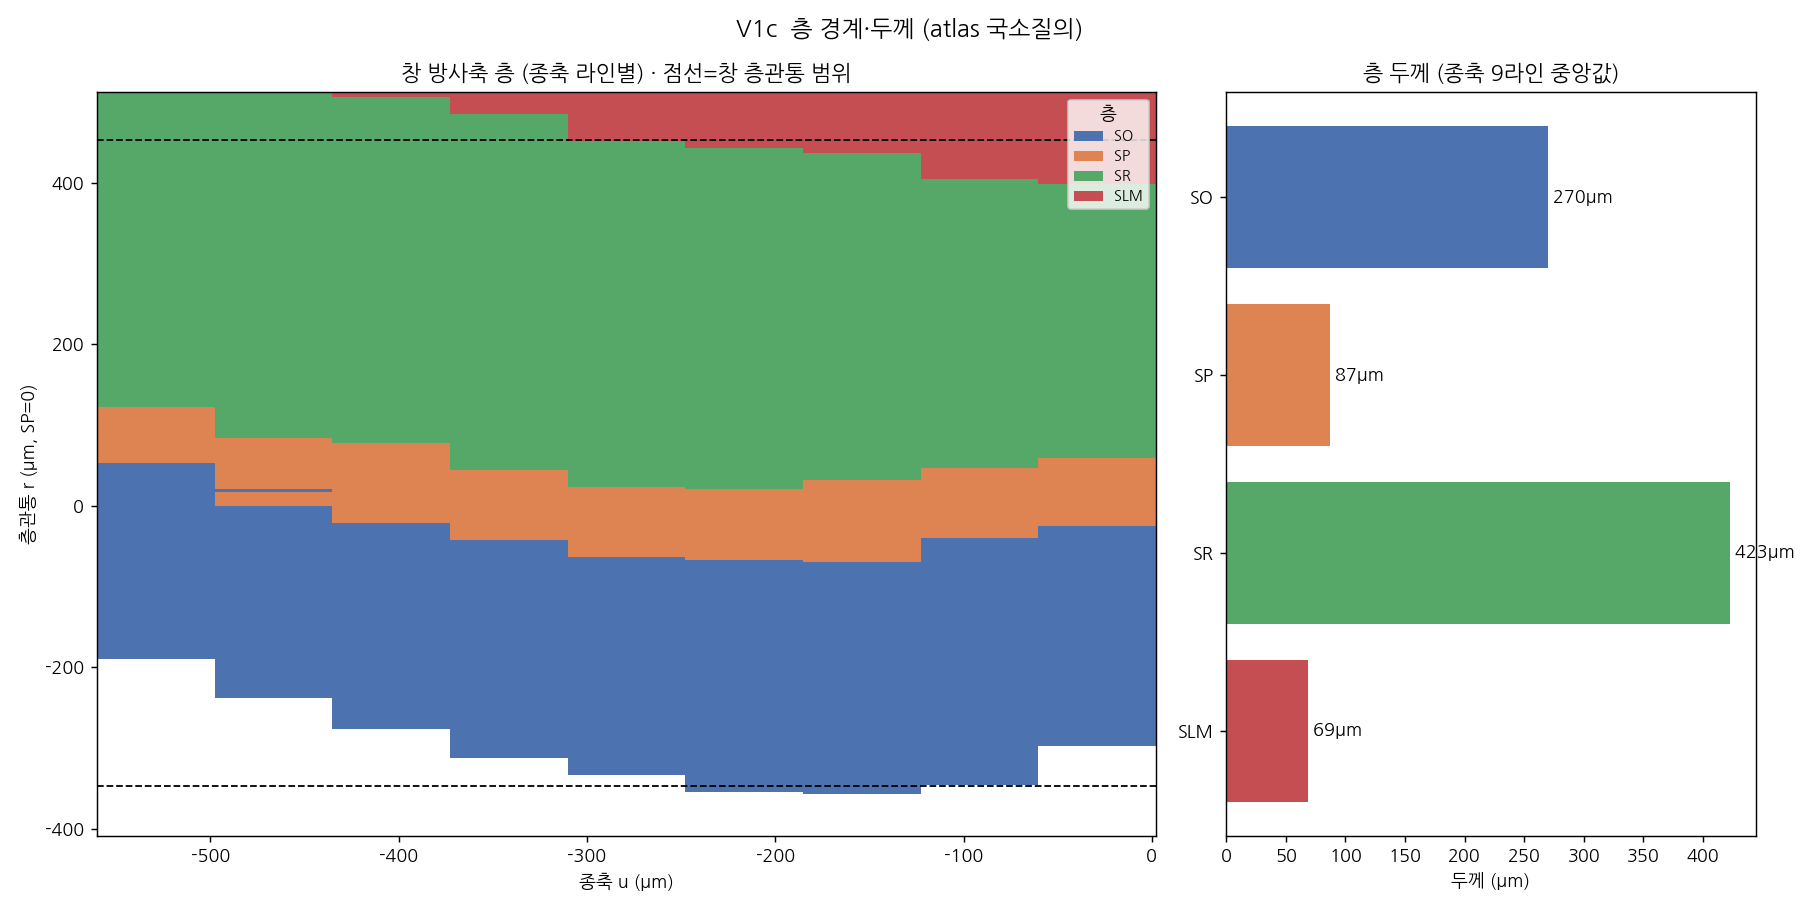
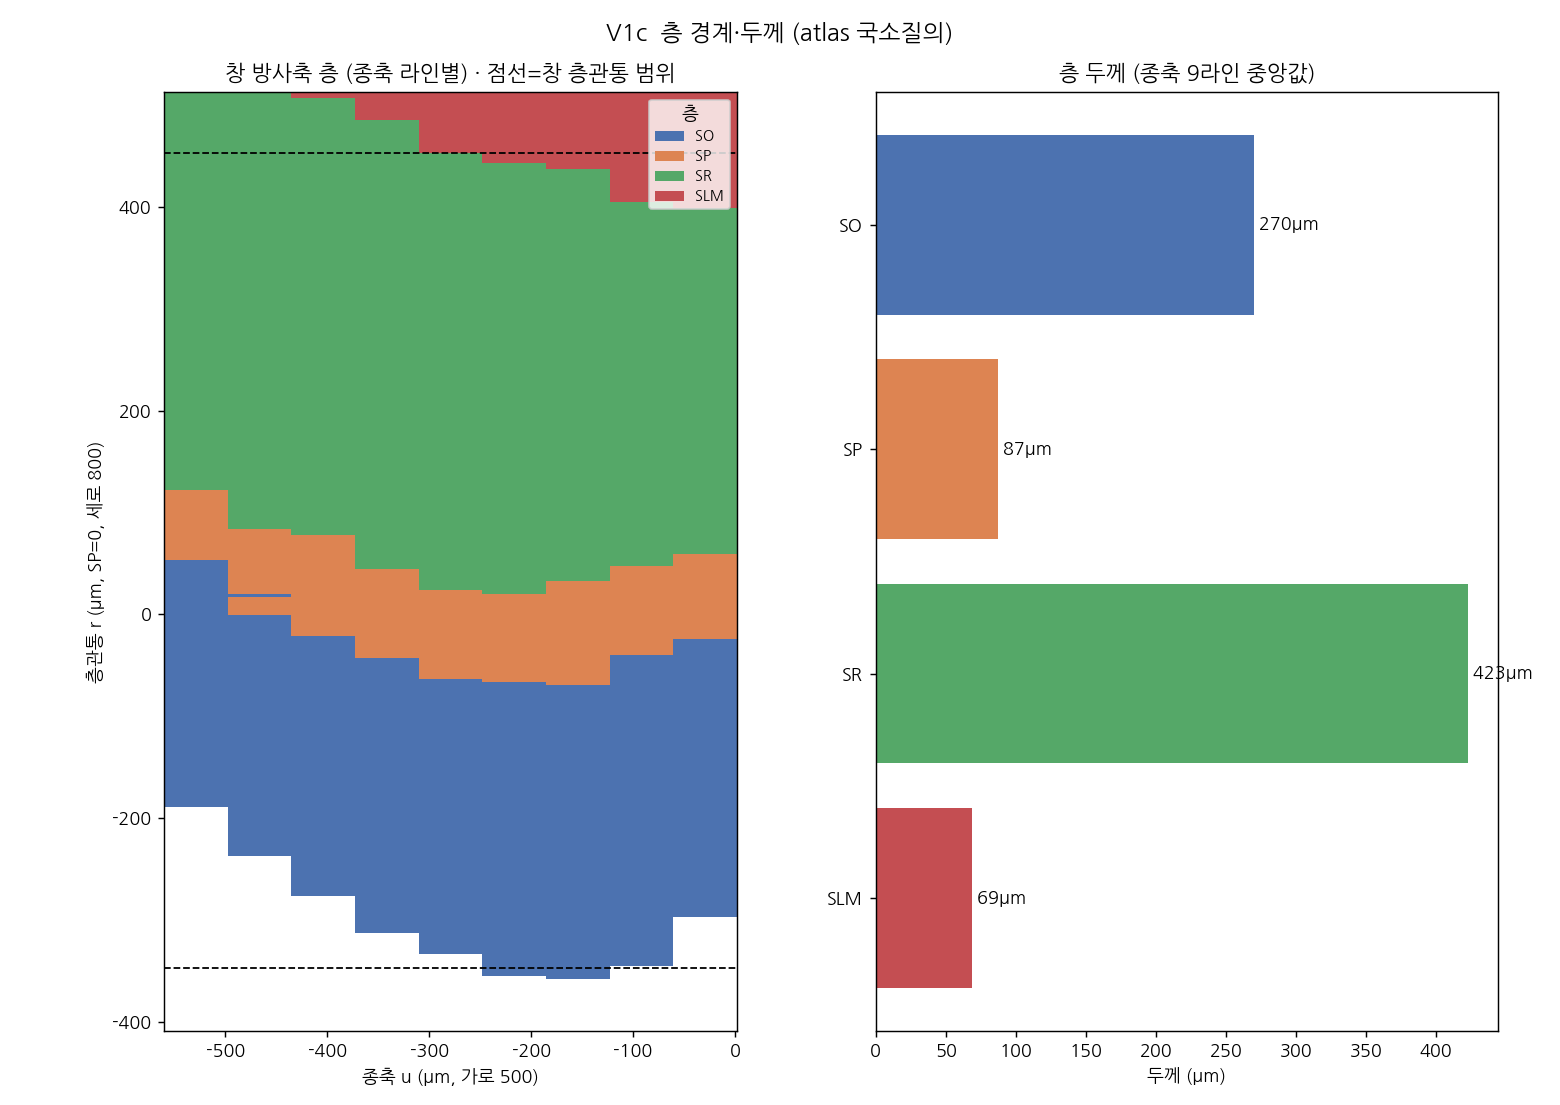
05 2-1: 창 세포 조성 집계(V2a)·E:I 8.8:1·12 mtype + V1c 등축 보정

Changed region(s): [[0.0, 0.0, 0.9846, 0.9846], [0.1538, 0.7692, 0.1846, 0.8]]

diff --git a/05_Micro_slice_CA1_Simulation/02_neurons/1_composition/composition.py b/05_Micro_slice_CA1_Simulation/02_neurons/1_composition/composition.py
@@ -1,0 +1,165 @@
+# -*- coding: utf-8 -*-
+"""
+02_neurons/1_composition/composition.py  —  2-1: 창 세포 조성 집계 (V2a)
+
+확정 창(층관통_v1) 안 세포의 조성을 SONATA nodes.h5에서 층별로 집계한다.
+  - 층별 세포수, m-type(12) 분포, e-type(4), 흥분/억제(EXC/INH), 형태강(PYR/INT)
+  - 밀도(cells/mm³), E:I 비, 대표 형태 개수(morphology 다양성)
+결과: data/derived/composition.json (2-2 배치 재사용) + 그림 V2a_composition.png
+
+재료: config/window_layout.json · circuit nodes.h5(hippocampus_neurons) · slice400.nrrd
+실행: python 02_neurons/1_composition/composition.py
+"""
+import os
+import glob
+import json
+import logging
+from collections import Counter
+
+import numpy as np
+import h5py
+import nrrd
+import matplotlib
+matplotlib.use("Agg")
+import matplotlib.pyplot as plt
+from matplotlib.patches import Patch
+logging.getLogger("matplotlib.font_manager").setLevel(logging.ERROR)
+plt.rcParams["font.family"] = ["NanumGothic", "Malgun Gothic", "DejaVu Sans"]
+plt.rcParams["axes.unicode_minus"] = False
+
+HERE = os.path.dirname(os.path.abspath(__file__))
+ROOT = os.path.abspath(os.path.join(HERE, "..", ".."))
+DATA = os.path.join(ROOT, "data")
+CFG = os.path.join(ROOT, "config", "window_layout.json")
+DERIVED = os.path.join(DATA, "derived")
+FIG = os.path.join(HERE, "figures")
+os.makedirs(FIG, exist_ok=True)
+os.makedirs(DERIVED, exist_ok=True)
+LAYER_ORDER = ["SO", "SP", "SR", "SLM"]
+LC = {"SO": "#4C72B0", "SP": "#DD8452", "SR": "#55A868", "SLM": "#C44E52"}
+
+
+def find(p):
+    return sorted(glob.glob(os.path.join(DATA, "**", glob.escape(p)), recursive=True), key=len)[0]
+
+
+def decode(g, name):
+    lib = [s.decode() if isinstance(s, bytes) else s for s in g["@library"][name][:]]
+    return np.array(lib, dtype=object)[g[name][:]]
+
+
+def main():
+    cfg = json.load(open(CFG, encoding="utf-8"))
+    fr = cfg["frame_um"]; w = cfg["window_um"]; c = w["center_local"]
+    seed = np.array(fr["seed"]); L = np.array(fr["long_dir"])
+    R = np.array(fr["radial_dir"]); Tk = np.array(fr["thick_dir"])
+
+    mask, h = nrrd.read(find(os.path.join("slices", "slice400.nrrd")))
+    origin = np.asarray(h["space origin"], float); vs = float(h["space directions"][0][0])
+    nx, ny, nz = mask.shape
+    hip = os.path.join("hippocampus_neurons", "nodes.h5")
+    with h5py.File(find(hip), "r") as f:
+        g = f["nodes/hippocampus_neurons/0"]
+        xyz = np.stack([g["x"][:], g["y"][:], g["z"][:]], 1)
+        layer = decode(g, "layer")
+        mtype = decode(g, "mtype")
+        etype = decode(g, "etype")
+        sclass = decode(g, "synapse_class")
+        mclass = decode(g, "morph_class")
+        morph = decode(g, "morphology")
+
+    idx = np.floor((xyz - origin) / vs).astype(int)
+    ok = (idx >= 0).all(1) & (idx[:, 0] < nx) & (idx[:, 1] < ny) & (idx[:, 2] < nz)
+    ins = np.zeros(len(xyz), bool); ii = idx[ok]
+    ins[ok] = mask[ii[:, 0], ii[:, 1], ii[:, 2]] > 0
+    sl = np.where(ins)[0]
+    d = xyz[sl] - seed
+    u = d @ L; r = d @ R; ww = d @ Tk
+    inwin = ((np.abs(u - c["u"]) <= w["long"] / 2) & (np.abs(r - c["r"]) <= w["radial"] / 2) &
+             (np.abs(ww - c["w"]) <= w["thick"] / 2))
+    win = sl[inwin]
+    Lw = layer[win]; Mt = mtype[win]; Et = etype[win]; Sc = sclass[win]; Mc = mclass[win]; Mo = morph[win]
+    N = len(win)
+
+    vol_mm3 = (w["long"] * w["radial"] * w["thick"]) * 1e-9  # µm³ → mm³
+    n_exc = int(np.sum(Sc == "EXC")); n_inh = int(np.sum(Sc == "INH"))
+
+    print(f"=== 2-1 창 세포 조성 (층관통_v1) ===")
+    print(f"[총] {N:,}개 · 창 부피 {vol_mm3*1e3:.1f}e-3 mm³ · 밀도 {N/vol_mm3:,.0f} cells/mm³")
+    print(f"[흥분/억제] EXC {n_exc:,} ({100*n_exc/N:.1f}%) · INH {n_inh:,} ({100*n_inh/N:.1f}%) · E:I = {n_exc/max(n_inh,1):.1f}:1")
+    print(f"[형태강] " + " · ".join(f"{k} {v:,}" for k, v in Counter(Mc).most_common()))
+    print(f"[e-type] " + " · ".join(f"{k} {v:,}" for k, v in Counter(Et).most_common()))
+    print(f"[형태 다양성] 고유 morphology {len(set(Mo)):,}종")
+    print("\n[층별 세포수]")
+    comp = {"total": N, "volume_mm3": vol_mm3, "density_per_mm3": N / vol_mm3,
+            "n_exc": n_exc, "n_inh": n_inh, "by_layer": {}, "by_mtype": {}}
+    for Ln in LAYER_ORDER:
+        m = Lw == Ln
+        nl = int(m.sum())
+        if nl == 0:
+            continue
+        ne = int(np.sum(Sc[m] == "EXC")); ni = nl - ne
+        mts = Counter(Mt[m])
+        comp["by_layer"][Ln] = {"n": nl, "exc": ne, "inh": ni, "mtypes": dict(mts)}
+        print(f"  {Ln:<4} {nl:>5,}  (EXC {ne:>4,} / INH {ni:>4,})  mtypes: " +
+              ", ".join(f"{k}={v}" for k, v in mts.most_common()))
+    comp["by_mtype"] = dict(Counter(Mt))
+    print("\n[m-type 전체]")
+    for k, v in Counter(Mt).most_common():
+        print(f"  {k:<10} {v:>5,} ({100*v/N:.1f}%)")
+
+    json.dump(comp, open(os.path.join(DERIVED, "composition.json"), "w", encoding="utf-8"),
+              ensure_ascii=False, indent=2)
+    print(f"\n[V2a] 조성표 저장 -> data/derived/composition.json")
+    fig_composition(comp, N, n_exc, n_inh)
+    print(f"[V2a] 그림 저장 -> {FIG}/V2a_composition.png")
+
+
+def fig_composition(comp, N, n_exc, n_inh):
+    layers = [L for L in LAYER_ORDER if L in comp["by_layer"]]
+    int_mts = sorted({m for L in comp["by_layer"].values() for m in L["mtypes"] if m != "SP_PC"})
+    cmap = plt.get_cmap("tab20")
+    mcol = {m: cmap(i % 20) for i, m in enumerate(int_mts)}
+    fig, axes = plt.subplots(1, 3, figsize=(18, 7), gridspec_kw={"width_ratios": [1, 1.5, 1]})
+
+    # (a) 층별 EXC/INH 총계
+    ax = axes[0]
+    ne = [comp["by_layer"][L]["exc"] for L in layers]
+    ni = [comp["by_layer"][L]["inh"] for L in layers]
+    ax.bar(layers, ne, color="#DD8452", label="EXC(SP_PC)")
+    ax.bar(layers, ni, bottom=ne, color="#4C72B0", label="INH")
+    for i, L in enumerate(layers):
+        ax.text(i, comp["by_layer"][L]["n"], f"{comp['by_layer'][L]['n']:,}",
+                ha="center", va="bottom", fontsize=10, fontweight="bold")
+    ax.set_ylabel("세포수"); ax.set_title("(a) 층별 세포수 (EXC/INH)")
+    ax.legend(fontsize=9)
+
+    # (b) 억제뉴런 m-type 층별 (SP_PC 제외 → 다양성 가시화)
+    ax = axes[1]
+    bottom = np.zeros(len(layers))
+    for m in int_mts:
+        vals = np.array([comp["by_layer"][L]["mtypes"].get(m, 0) for L in layers], float)
+        ax.bar(layers, vals, bottom=bottom, color=mcol[m], label=m, edgecolor="white", lw=0.4)
+        bottom += vals
+    for i, L in enumerate(layers):
+        tot_inh = comp["by_layer"][L]["inh"]
+        if tot_inh:
+            ax.text(i, tot_inh, f"{tot_inh}", ha="center", va="bottom", fontsize=9, fontweight="bold")
+    ax.set_ylim(0, bottom.max() * 1.12)
+    ax.set_ylabel("억제뉴런 수"); ax.set_title("(b) 층별 억제뉴런 m-type (SP_PC 제외)")
+    ax.legend(ncol=2, fontsize=8, loc="upper right", title="m-type")
+
+    # (c) E:I 파이
+    ax = axes[2]
+    ax.pie([n_exc, n_inh], labels=[f"EXC\n{n_exc:,}", f"INH\n{n_inh:,}"],
+           colors=["#DD8452", "#4C72B0"], autopct="%1.1f%%", startangle=90,
+           wedgeprops=dict(edgecolor="white"))
+    ax.set_title(f"(c) 흥분:억제 = {n_exc/max(n_inh,1):.1f}:1\n총 {N:,}개 · {comp['density_per_mm3']:,.0f} cells/mm³")
+
+    fig.suptitle("V2a  창 세포 조성 (층관통_v1 · 국소 atlas)", fontsize=13)
+    fig.tight_layout(); fig.savefig(os.path.join(FIG, "V2a_composition.png"), dpi=130)
+    plt.close(fig)
+
+
+if __name__ == "__main__":
+    main()

diff --git a/05_Micro_slice_CA1_Simulation/01_tissue/5_layers/layers.py b/05_Micro_slice_CA1_Simulation/01_tissue/5_layers/layers.py
@@ -88,12 +88,13 @@ def fig_layers(r_s, us, line_layers, lc, thick, c, w):
     cmap = ListedColormap(["#ffffff"] + [LC[Ln] for Ln in LAYER_ORDER])
     norm = BoundaryNorm(np.arange(-0.5, 5.5, 1), cmap.N)
 
-    fig, axes = plt.subplots(1, 2, figsize=(14, 7), gridspec_kw={"width_ratios": [2, 1]})
+    fig, axes = plt.subplots(1, 2, figsize=(12, 8.5), gridspec_kw={"width_ratios": [1.3, 1]})
     ax = axes[0]
     ax.pcolormesh(us, r_s, grid, cmap=cmap, norm=norm, shading="auto")
     ax.axhline(c["r"] - w["radial"] / 2, color="k", ls="--", lw=1)
     ax.axhline(c["r"] + w["radial"] / 2, color="k", ls="--", lw=1)
-    ax.set_xlabel("종축 u (µm)"); ax.set_ylabel("층관통 r (µm, SP=0)")
+    ax.set_aspect("equal")  # 종축500 < 층관통800 실제 비율 반영(세로가 더 김)
+    ax.set_xlabel("종축 u (µm, 가로 500)"); ax.set_ylabel("층관통 r (µm, SP=0, 세로 800)")
     ax.set_title("창 방사축 층 (종축 라인별) · 점선=창 층관통 범위")
     ax.legend(handles=[Patch(facecolor=LC[Ln], label=Ln) for Ln in LAYER_ORDER],
               title="층", loc="upper right", fontsize=8)
